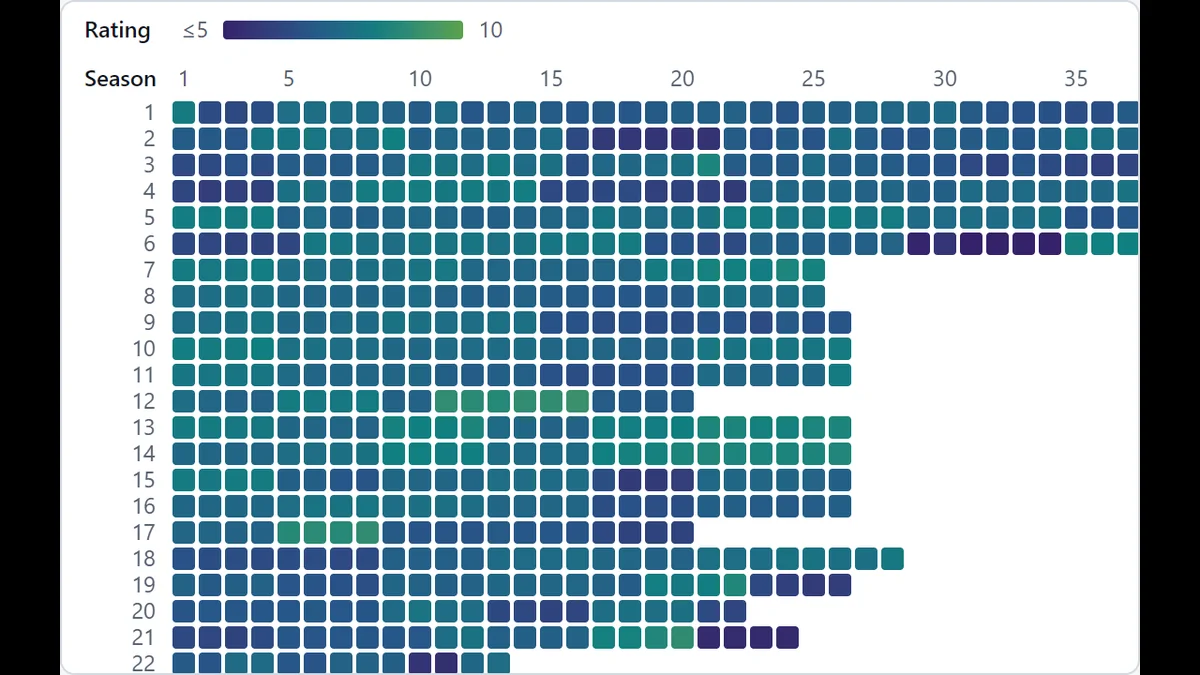
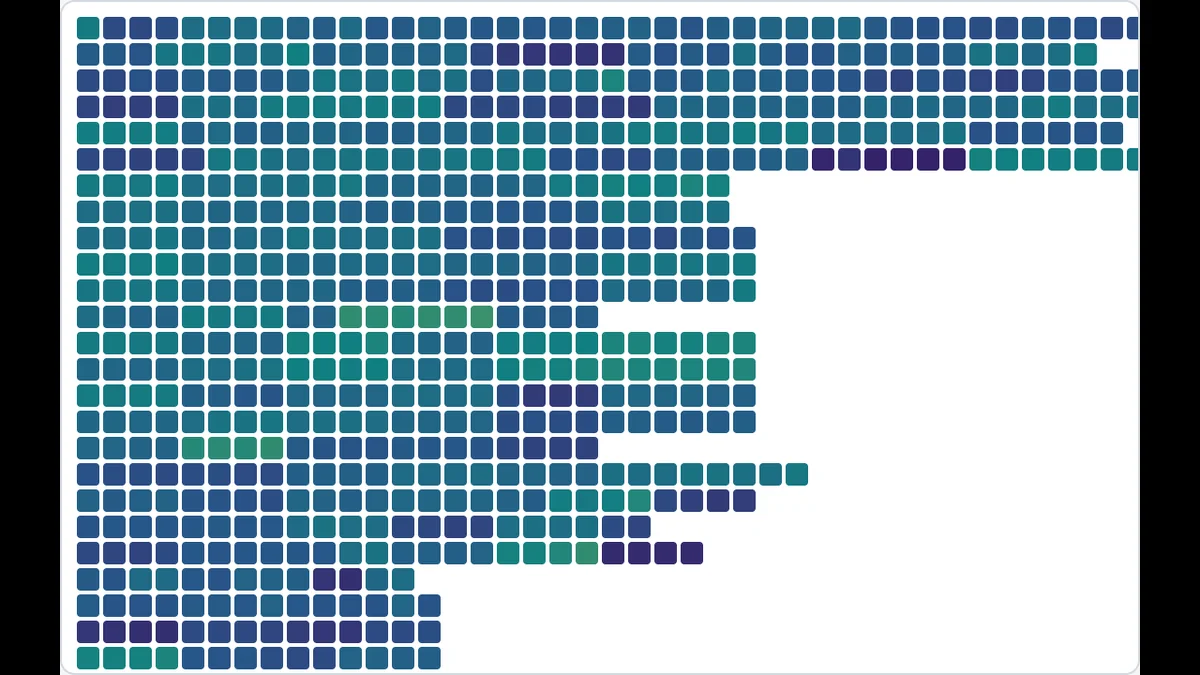
A thumbnail with no text, as v1.6.3
Mark's rule for the project cards: a thumbnail shows only the demo's
visuals, with no text. The classic heatmap on the card loses its
legend and its season and episode numbers, in both themes. The stills
script hides them for the thumbnails only, and scrolls the grid past
the empty row and column they leave. The opening stills and the link
preview are unchanged.

Fixes #20

diff --git a/scripts/stills.py b/scripts/stills.py
@@ -1,10 +1,11 @@
 """Render the demo's stills from the built demo into demo/public/, in the dark and light themes.
 
 - static.webp and static-light.webp: the opening heatmap, shown while the demo loads.
-- thumb.webp and thumb-light.webp: the classic era's heatmap, for the project card. The stage is shot
-  small, so its cells stay bold on the card, and at 16:10, the card's shape, then centred on the
-  theme's page colour at 1200 x 675. The card trims those margins.
-- og.jpg: the same heatmap at 1200 x 630, dark only, for link previews.
+- thumb.webp and thumb-light.webp: the classic era's heatmap, for the project card, with no text: no
+  legend, and no season or episode numbers (Mark, 2026-11-26: a thumbnail shows only the demo's
+  visuals). The stage is shot small, so its cells stay bold on the card, and at 16:10, the card's
+  shape, then centred on the theme's page colour at 1200 x 675. The card trims those margins.
+- og.jpg: the same heatmap, with its legend and numbers, at 1200 x 630, dark only, for link previews.
 
 Serves the built demo (demo/dist/, from `npm run build`), opens it in a browser and screenshots the
 stage alone at 2x. Then rebuild, so the bundle carries the new stills.
@@ -35,6 +36,17 @@ CSS = """
 [data-demo] .dk-stage { width: %dpx; height: %dpx !important; aspect-ratio: auto !important; }
 """
 
+# For the thumbnails, the heatmap without its text. The numbers' row and column stay in the grid,
+# empty, so the grid is scrolled past them, to PAD CSS px short of the first cell.
+NO_TEXT = """
+[data-demo] .dw-legend, [data-demo] .dw-corner, [data-demo] .dw-colhead, [data-demo] .dw-rowhead { display: none !important; }
+"""
+PAD = 8
+SCROLL_TO_CELLS = """pad => {
+  const cell = document.querySelector('.dw-cell');
+  document.querySelector('.dw-scroller').scrollTo(cell.offsetLeft - pad, cell.offsetTop - pad);
+}"""
+
 
 class QuietHandler(http.server.SimpleHTTPRequestHandler):
     def log_message(self, *args):
@@ -49,11 +61,14 @@ def open_page(browser, url):
     return page
 
 
-def shoot(page, theme, width, height):
+def shoot(page, theme, width, height, text=True):
     """Screenshots the stage at width x height CSS px in the theme, and returns it with the page's colour as (r, g, b)."""
-    page.evaluate("([theme, css]) => { document.documentElement.dataset.theme = theme; document.getElementById('still').textContent = css; }", [theme, CSS % (width, height)])
+    css = CSS % (width, height) + ("" if text else NO_TEXT)
+    page.evaluate("([theme, css]) => { document.documentElement.dataset.theme = theme; document.getElementById('still').textContent = css; }", [theme, css])
     page.mouse.move(0, 0)
     page.wait_for_timeout(500)  # the frame redraws on the resize
+    if not text:
+        page.evaluate(SCROLL_TO_CELLS, PAD)
     png = page.locator(".dk-stage").screenshot()
     background = page.evaluate("getComputedStyle(document.body).backgroundColor")
     return Image.open(io.BytesIO(png)).convert("RGB"), tuple(int(c) for c in re.findall(r"\d+", background)[:3])
@@ -69,9 +84,9 @@ def render(browser, url):
     page = open_page(browser, url)
     for name in ("Heatmap", "Classic"):
         page.get_by_role("radio", name=name, exact=True).check(force=True)  # each radio sits under its label
+    stills["og", "dark"] = shoot(page, "dark", 640, 336)  # before the thumbnails scroll the grid
     for theme in THEMES:
-        stills["thumb", theme] = shoot(page, theme, 576, 360)
-    stills["og", "dark"] = shoot(page, "dark", 640, 336)
+        stills["thumb", theme] = shoot(page, theme, 576, 360, text=False)
     page.close()
     return stills
 

diff --git a/README.md b/README.md
@@ -16,7 +16,7 @@ The project is descriptive: it shows how episodes were rated, not why.
 | [`src/doctor_who_ratings/`](src/doctor_who_ratings/) | Python: the data pipeline and the leaderboard's reference maths. |
 | [`reference/`](reference/) | The hand-checked tables of stories and parts, from Wikipedia. Its README explains how they're made and checked. |
 | [`tests/`](tests/) | Python tests: the reference tables, the demo's data file and the rankings. |
-| [`scripts/`](scripts/) | Renders the demo's stills: the opening heatmap, and the same heatmap smaller for the project card. |
+| [`scripts/`](scripts/) | Renders the demo's stills: the opening heatmap, and the same heatmap smaller and without its text for the project card. |
 | [`docs/`](docs/) | The plan, and the draft write-up for the site. |
 | [`legacy/`](legacy/) | The original 2025 notebook, kept for reference. Its README explains why its variance analysis doesn't hold. |
 
